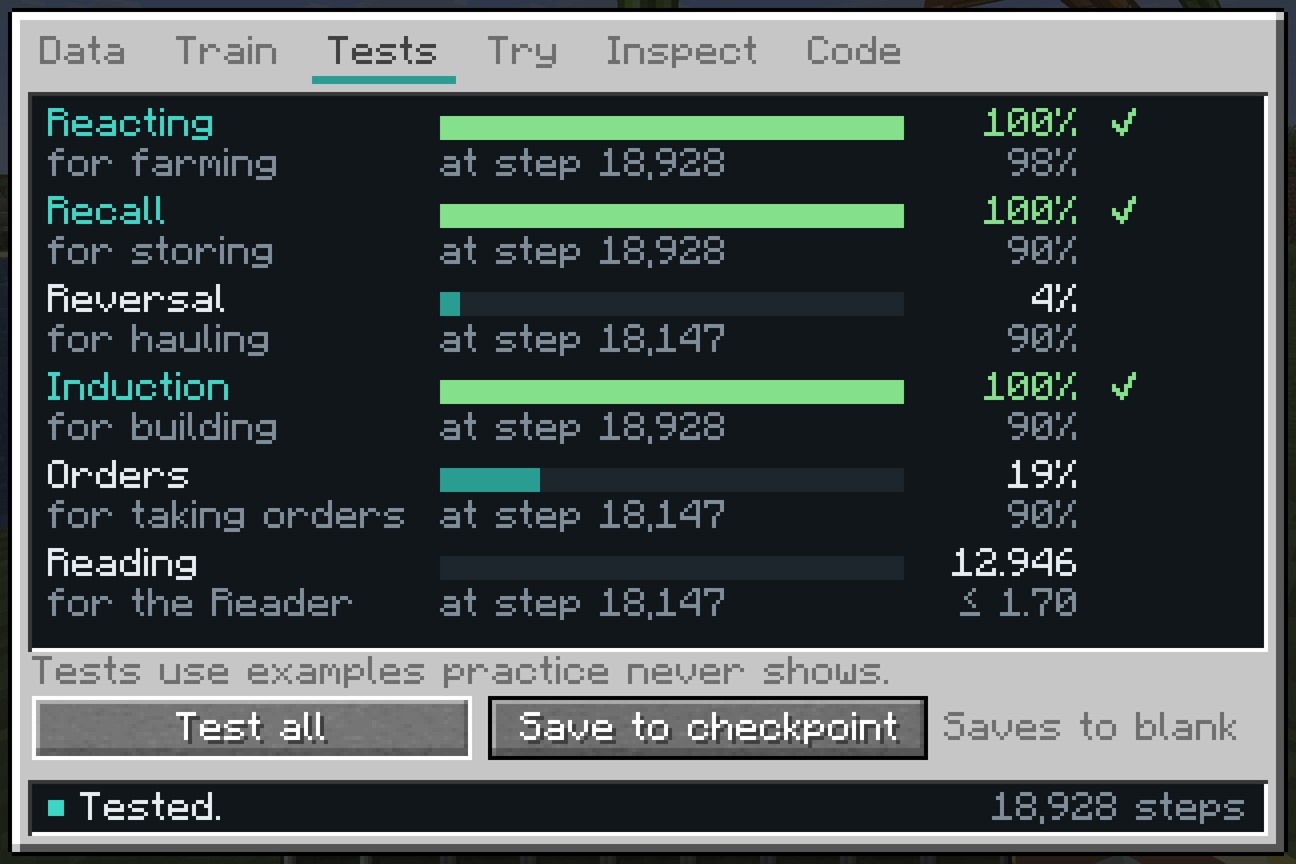
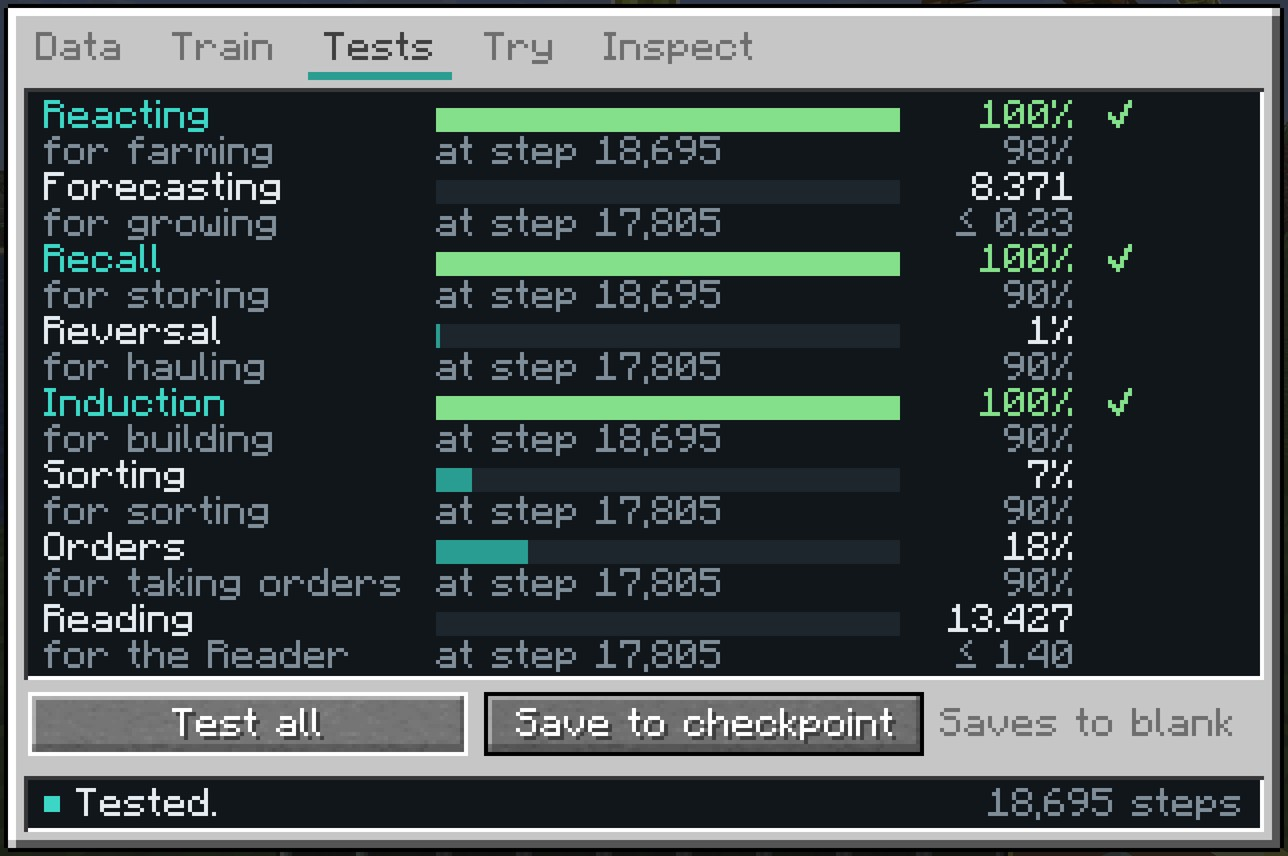
docs: show the Bench, training and agents in motion in the README
Clips recorded by rehearsals replace the still images, a new section covers designing machines on the Bench, and the
tagline says what the mod is. Building mentions the guide website.

Changed region(s): [[0.0, 0.0, 1.0, 1.0], [0.4658, 0.5771, 0.559, 0.6075]]

diff --git a/README.md b/README.md
@@ -2,19 +2,19 @@
 
 <img src="src/main/resources/residual_logo.png" alt="Residual" width="372">
 
-**Build models from the ground up, one block at a time.**
+**Real language models, from the matrix multiply up.**
 
 </div>
 
-![An agent farming by a ruined archive house, beside the model whose model it carries](docs/images/world.jpg)
+![A model training by a river: a wave of light runs along its cables and each machine's output floats above it, with an archive house and a farm behind](docs/images/hero.webp)
 
 Someone lived in this world before you. They built machines that thought, and they wrote everything down. Then they
 were gone, and nothing they left says why. Their writing survives in the ruins as broken shards.
 
 Residual is a Minecraft mod about building those models again, and every model is a real language model. Each machine
-performs one real operation: a table lookup, a matrix multiplication, a softmax, a whole transformer layer. Cable
-machines into a network, train it on text, test it on text it has never seen, and put it to work in the body of an
-agent. The arithmetic is what PyTorch does, down to the optimizer.
+performs one real operation: a table lookup, a matrix multiplication, a softmax, a whole transformer layer. Design the
+machines from the smallest operations there are, cable them into a network, train it on text, test it on text it has
+never seen, and put it to work in the body of an agent. The arithmetic is what PyTorch does, down to the optimizer.
 
 ## The archive
 
@@ -36,11 +36,27 @@ merging the most frequent pair of tokens over and over, and writes it onto a Tok
 words where it used to see letters. Losses are counted per character, so models with different tokenizers compare
 fairly.
 
+## Machines from scratch
+
+![Softmax on the Bench: wired straight from its formula it overflows on scores near 1000; with each row's maximum taken off first, every case passes](docs/images/bench.webp)
+
+The machines that do the real computing, from the matrix multiplier to the transformer block, are made from designs
+you wire yourself. On a Bench, a module is built from the smallest operations there are: add and multiply, exp and
+log, a sum or a maximum along the last axis, a transpose. A spec says what the module must compute and checks it on
+cases worked out exactly, among them the inputs that break the obvious design. Softmax wired straight from its formula
+passes the ordinary cases and turns red on scores near 1000, where the exponential overflows; take each row's maximum
+off first and it passes them all. Specs build on each other, from matrix multiply and softmax up to attention and a
+whole transformer block.
+
+A verified design is recorded onto a photomask, and a Fabricator makes machines from it out of wafers, a smaller
+design costing fewer. The ruins hold old photomasks too. Their designs are correct but written out one operation at a
+time: their machines give the same answers, use more memory and train more slowly.
+
 ## Models
 
 <p>
-<img src="docs/images/tests.jpg" alt="The Tests tab: a model's score on each of the six benchmarks" width="49%">
-<img src="docs/images/train.jpg" alt="The Train tab: the loss on practice and on the test" width="49%">
+<img src="docs/images/train.webp" alt="The Train tab as a small GPT learns to sort: the loss on practice and on the test falling together" width="49%">
+<img src="docs/images/tests.jpg" alt="The Tests tab: a model's score on each of the eight benchmarks" width="49%">
 </p>
 
 Every model is tested on eight benchmarks. A test uses examples that practice never shows, and a job asks its model in
@@ -71,8 +87,8 @@ shows where each token looks.
 ## Agents
 
 <p>
-<img src="docs/images/agent.jpg" alt="An agent's screen: what it asked its model, and what came back" width="49%">
-<img src="docs/images/terminal.jpg" alt="A Terminal: writing with a model served from a Model Server" width="49%">
+<img src="docs/images/program.webp" alt="A program clicked together from an agent's palette and from things held, then run" width="49%">
+<img src="docs/images/sort.webp" alt="An agent's trace as it sorts a barrel by kind, filing each thing where its filter model says" width="49%">
 </p>
 
 An agent is a frame that runs a program, such as `repeat (harvest, plant wheat seeds, put wheat)` or
@@ -100,6 +116,10 @@ average field, so the way to forecast yours is to train on the Forecaster's own 
 
 ## Serving models
 
+<p align="center">
+<img src="docs/images/terminal.jpg" alt="A Terminal: writing with a model served from a Model Server" width="60%">
+</p>
+
 An agent carries a model of up to 40,000 parameters. A bigger model stays in a Model Server and answers over relays.
 A Relay Card in an agent's model slot asks the server instead, anywhere the relays reach. A Terminal lets you write
 with the served model and carries your orders as far as the relays go. Training Accelerators give the Core more threads
@@ -125,7 +145,7 @@ You get the field notes the first time you join a world. Hold **G** over any Res
 
 ### Modpack
 
-`Residual-2.0.0.mrpack`, also on the Releases page, sets up Residual with Applied Energistics 2, JEI, Jade, Sodium,
+`Residual-0.3.0-alpha.mrpack`, also on the Releases page, sets up Residual with Applied Energistics 2, JEI, Jade, Sodium,
 ModernFix and FerriteCore. Import it in Prism Launcher or the Modrinth App.
 
 ## Building
@@ -133,7 +153,7 @@ ModernFix and FerriteCore. Import it in Prism Launcher or the Modrinth App.
 Building needs Java 25.
 
 ```sh
-./gradlew build       # build/libs/residual-26.1.2-2.0.0.jar
+./gradlew build       # build/libs/residual-26.1.2-0.3.0-alpha.jar
 ./gradlew runClient
 ```
 
@@ -146,7 +166,8 @@ uv run python tools/data.py
 uv run --with matplotlib python tools/formulas.py
 ```
 
-`uv run python tools/pack.py` builds the modpack around the jar in `build/libs`.
+`uv run python tools/pack.py` builds the modpack around the jar in `build/libs`, and `./gradlew guideWebsite` builds
+the field notes as a website in `build/guideWebsite`.
 
 ## Credits
 
